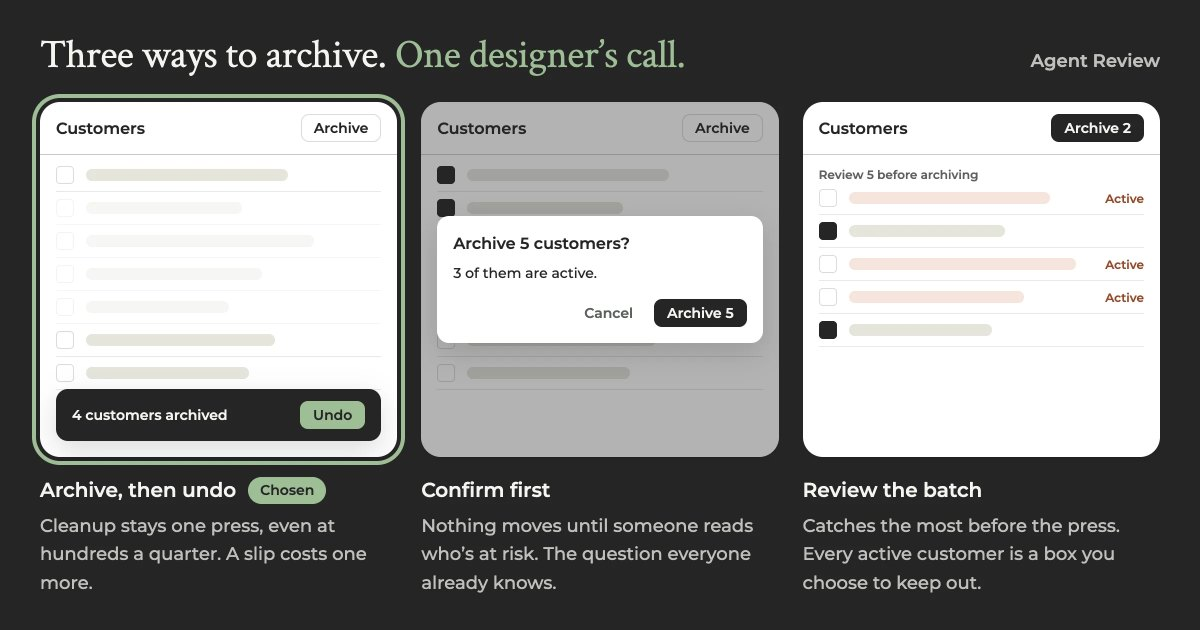
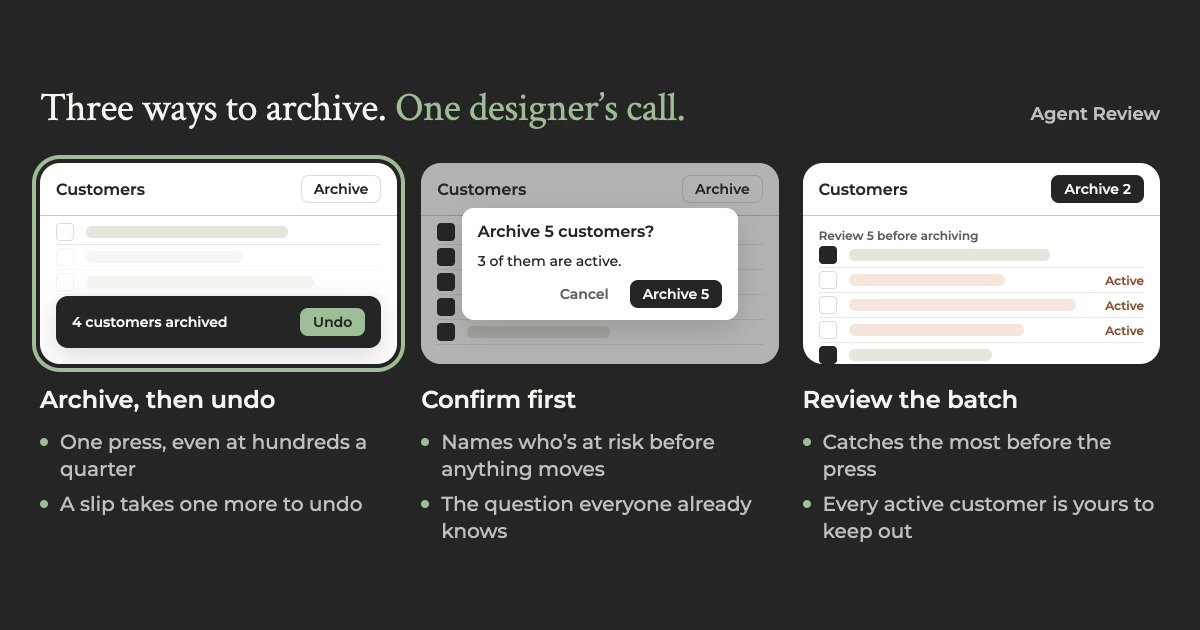
Agent Review card: 16:9 screens, larger type, bullets (#667)
* The Agent Review card's three screens are 16:9, the labels 24px and the case for each two 20px bullets where it was a 16px paragraph, and the whole composition sits centered with 64px around it. Card ?v=4; share card and og image re-rendered

* The Agent Review card drops the Chosen tag, which competed with the Undo button; the sage outline alone marks the call. Card ?v=5

---------

diff --git a/lab/index.html b/lab/index.html
@@ -289,7 +289,7 @@
           </li>
           <li class="writing-item">
             <a class="writing-link" href="agent-review.html">
-              <img class="writing-card" src="../img/lab/agent-review-cycle-card.webp?v=3" width="1280" height="720" alt="" decoding="async" />
+              <img class="writing-card" src="../img/lab/agent-review-cycle-card.webp?v=5" width="1280" height="720" alt="" decoding="async" />
               <div class="writing-text">
                 <h3 class="writing-title">Agent Review: design judgment when agents join the team</h3>
                 <p class="writing-dek">A prototype that follows one feature from a support ticket to what ships, with a coding agent doing the building. Its scenarios are simulated.</p>

diff --git a/index.html b/index.html
@@ -904,7 +904,7 @@
               </p>
             </div>
             <a class="case-thumb" href="lab/agent-review.html" aria-label="Read the Agent Review case study: three ways to archive, one designer&rsquo;s call">
-              <img src="img/lab/agent-review-cycle-card.webp?v=3" width="2560" height="1440" alt="" loading="lazy" decoding="async" />
+              <img src="img/lab/agent-review-cycle-card.webp?v=5" width="2560" height="1440" alt="" loading="lazy" decoding="async" />
             </a>
           </div>
         </div>
